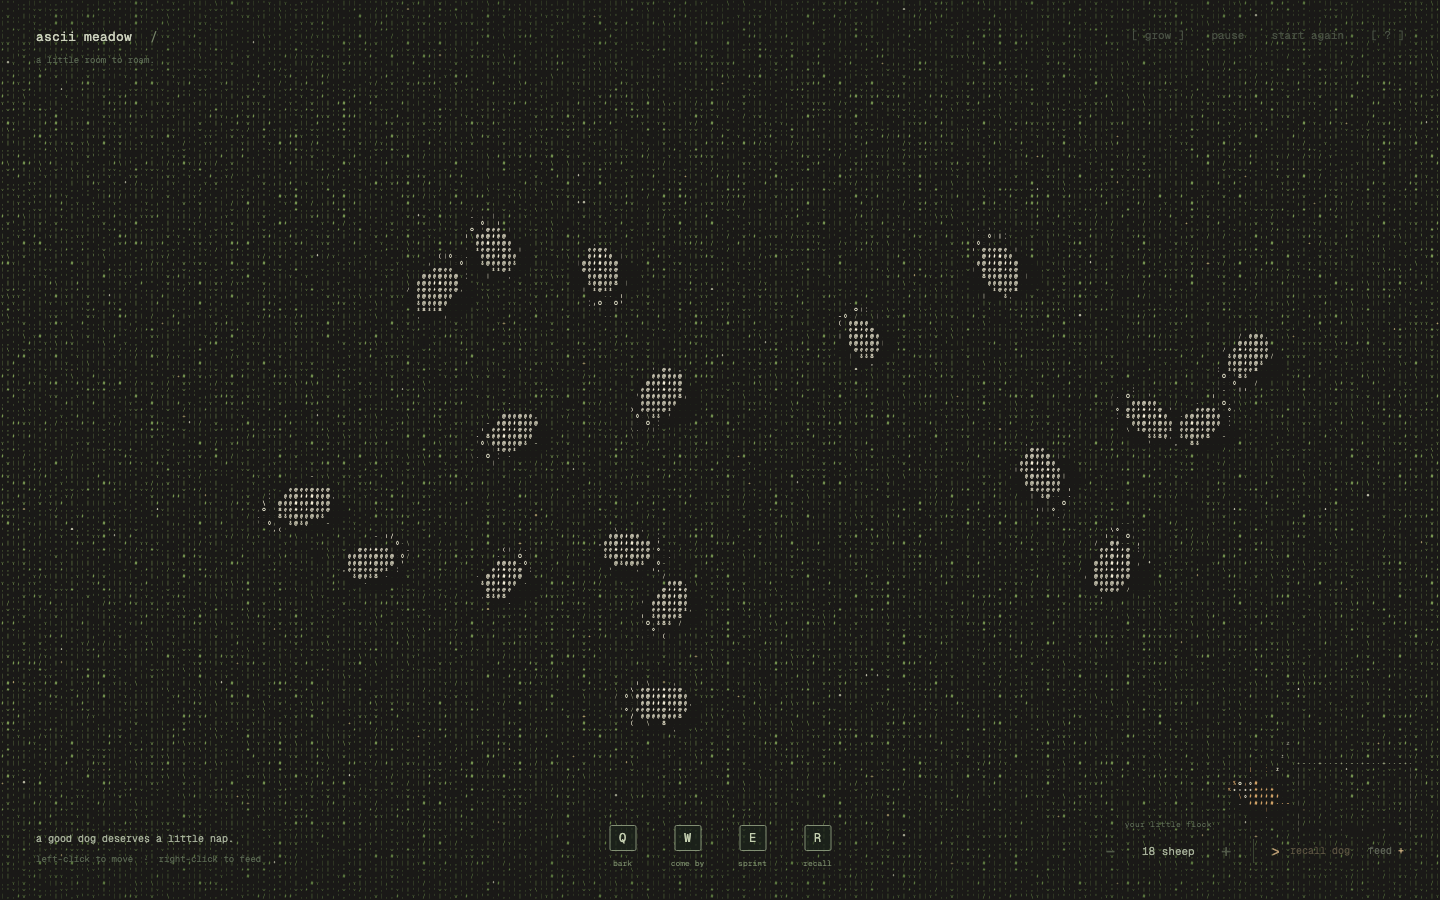
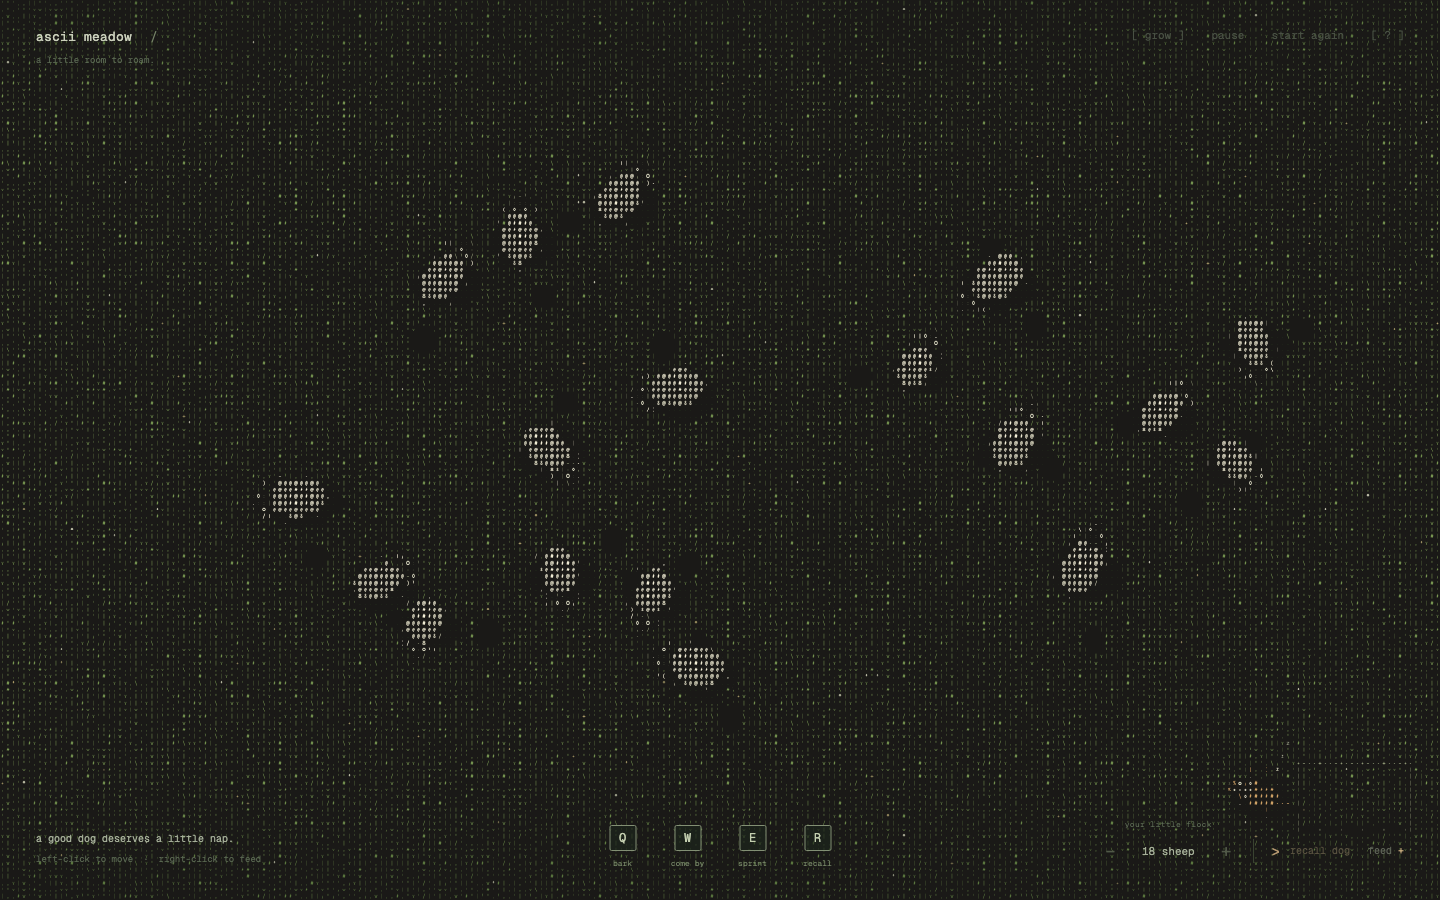
Fix shortest-angle corner turns and leave longer-lasting grazing patches

diff --git a/tests/meadow.test.ts b/tests/meadow.test.ts
@@ -10,7 +10,7 @@ describe('the living pasture', () => {
     const p = new Pasture(900, 700), near = p.index(400, 300), far = p.index(80, 80);
     const initial = p.grass[near], untouched = p.grass[far];
     expect(p.bite(400, 300, 1, 25)).toBeGreaterThan(0);
-    expect(p.grass[near]).toBeLessThan(initial); expect(initial - p.grass[near]).toBeLessThanOrEqual(0.055); expect(p.grass[far]).toBe(untouched);
+    expect(p.grass[near]).toBeLessThan(initial); expect(initial - p.grass[near]).toBeLessThanOrEqual(0.068 + 1e-6); expect(p.grass[far]).toBe(untouched);
   });
   it('starts with a completely edible field and paints back only the brush area', () => {
     const p = new Pasture(900, 700);
@@ -25,7 +25,7 @@ describe('the living pasture', () => {
     const p = new Pasture(900, 700), i = p.index(400, 300);
     p.grass[i] = 0; p.tread(400, 300, 1); const tread = p.trampled[i];
     for (let k = 0; k < 1200; k++) p.step(0.1);
-    expect(p.grass[i]).toBeGreaterThan(0.25); expect(p.grass[i]).toBeLessThan(0.28); expect(p.grass[i]).toBeLessThanOrEqual(p.capacity[i]);
+    expect(p.grass[i]).toBeGreaterThan(0.21); expect(p.grass[i]).toBeLessThan(0.23); expect(p.grass[i]).toBeLessThanOrEqual(p.capacity[i]);
     expect(p.trampled[i]).toBeLessThan(tread * 0.01);
   });
   it('keeps nibbled ground cropped for minutes, preserves it on resize, and lets the brush restore it', () => {
@@ -214,7 +214,7 @@ describe('staged recovery and responsive controls', () => {
     const p = new Pasture(900, 700); p.bite(300, 300, 5, 25);
     for (let i = 0; i < 150; i++) p.step(0.1);
     p.bite(600, 300, 5, 25);
-    for (let i = 0; i < 630; i++) p.step(0.1);
+    for (let i = 0; i < 760; i++) p.step(0.1);
     expect(p.recoverIn[p.index(300, 300)]).toBe(0); expect(p.recoverIn[p.index(600, 300)]).toBeGreaterThan(0);
     expect(p.at(300, 300)).toBeGreaterThan(p.at(600, 300)); expect(p.edibleAt(300, 300)).toBe(0);
   });
@@ -258,5 +258,31 @@ describe('safe dog routes and active herding', () => {
     const p = new Pasture(900, 700); p.bite(450, 350, 5, 25);
     for (let i = 0; i < 600; i++) p.step(0.1);
     expect(p.at(450, 350)).toBe(0); expect(p.recoverIn[p.index(450, 350)]).toBeGreaterThan(5);
+  });
+});
+
+
+describe('shortest turns and visible grazing', () => {
+  it('takes a quarter turn in either direction after any number of full laps', () => {
+    for (const laps of [-20, -4, -1, 0, 1, 4, 20]) {
+      const offset = laps * Math.PI * 2;
+      expect(angleDelta(offset + Math.PI * 0.75, -Math.PI * 0.75)).toBeCloseTo(Math.PI / 2);
+      expect(angleDelta(offset - Math.PI * 0.75, Math.PI * 0.75)).toBeCloseTo(-Math.PI / 2);
+    }
+  });
+  it('turns the dog through 90 degrees rather than 270 at the wrap boundary', () => {
+    const w = new World(1200, 900, 0); w.toggleDog();
+    const heading = Math.PI * 2 + Math.PI * 0.75;
+    Object.assign(w.dog!, { x: 600, y: 400, heading }); w.sendDog(500, 300);
+    w.step(1 / 60); expect(angleDelta(heading, w.dog!.heading)).toBeGreaterThan(0);
+    advance(w, 0.4); expect(Math.abs(angleDelta(w.dog!.heading, -Math.PI * 0.75))).toBeLessThan(0.02);
+    expect(Math.abs(w.dog!.heading)).toBeLessThanOrEqual(Math.PI);
+  });
+  it('clears a visible mouth-sized patch that remains bare after a minute', () => {
+    const p = new Pasture(900, 700); p.bite(450, 350, 2, 21);
+    expect(p.at(450, 350)).toBe(0); expect(p.at(458, 350)).toBe(0);
+    expect(p.at(200, 200)).toBe(1);
+    for (let i = 0; i < 600; i++) p.step(0.1);
+    expect(p.at(450, 350)).toBe(0); expect(p.at(458, 350)).toBe(0);
   });
 });

diff --git a/src/simulation/World.ts b/src/simulation/World.ts
@@ -15,7 +15,7 @@ export const ABILITIES: Record<Ability, { name: string; duration: number }> = {
   q: { name: 'Bark', duration: 2.4 }, w: { name: 'Come By', duration: 0 },
   e: { name: 'Sprint', duration: 1.25 }, r: { name: 'Recall / Release', duration: 0 },
 };
-export const SPEEDS = { sheepWalk: 13, sheepFood: 20, sheepChased: 26, sheepPanic: 46, dogWalk: 108, dogOrbit: 198, dogSprint: 235, dogRelease: 255 };
+export const SPEEDS = { sheepWalk: 13, sheepFood: 20, sheepChased: 26, sheepPanic: 46, dogWalk: 116, dogOrbit: 210, dogSprint: 248, dogRelease: 270 };
 export interface Dog {
   x: number; y: number; vx: number; vy: number; heading: number; targetX: number; targetY: number;
   arrived: boolean; sprint: number; orbit: 'w' | null; orbitEntering: boolean; orbitPath: Point[]; orbitProgress: number; orbitUpdatedAt: number;
@@ -29,7 +29,8 @@ function seeded(seed: number) {
   let s = seed >>> 0;
   return () => { s += 0x6d2b79f5; let t = Math.imul(s ^ s >>> 15, s | 1); t ^= t + Math.imul(t ^ t >>> 7, t | 61); return ((t ^ t >>> 14) >>> 0) / 4294967296; };
 }
-export function angleDelta(from: number, to: number) { return ((to - from + Math.PI * 3) % TAU) - Math.PI; }
+/** Signed shortest turn, including headings accumulated over several laps. */
+export function angleDelta(from: number, to: number) { return Math.atan2(Math.sin(to - from), Math.cos(to - from)); }
 
 export class World {
   pasture: Pasture; sheep: Sheep[] = []; dog: Dog | null = null; feed: Feed[] = []; barks: Bark[] = [];
@@ -232,7 +233,7 @@ export class World {
     const fraction = safeMovementFraction(d, proposed, obstacles);
     d.vx = (proposed.x - d.x) * fraction / dt; d.vy = (proposed.y - d.y) * fraction / dt;
     d.x += d.vx * dt; d.y += d.vy * dt; d.arrived = Math.hypot(d.targetX - d.x, d.targetY - d.y) < 2;
-    if (!d.arrived && Math.hypot(d.vx, d.vy) > 2) d.heading += clamp(angleDelta(d.heading, Math.atan2(d.vy, d.vx)), -dt * 5, dt * 5);
+    if (!d.arrived && Math.hypot(d.vx, d.vy) > 2) d.heading = angleDelta(0, d.heading + clamp(angleDelta(d.heading, Math.atan2(d.vy, d.vx)), -dt * 5, dt * 5));
     if (d.arrived) {
       if (d.recalling) { d.recalling = false; d.atHome = true; d.x = this.home.doorX; d.y = this.home.doorY; }
       d.launching = false;
@@ -326,7 +327,7 @@ export class World {
       const v = Math.hypot(s.vx, s.vy);
       if (v > cap) { s.vx *= cap / v; s.vy *= cap / v; }
       Object.assign(s, this.clampPoint(s.x + s.vx * dt, s.y + s.vy * dt));
-      if (v > 2) s.heading += clamp(angleDelta(s.heading, Math.atan2(s.vy, s.vx)), -dt * 1.7, dt * 1.7);
+      if (v > 2) s.heading = angleDelta(0, s.heading + clamp(angleDelta(s.heading, Math.atan2(s.vy, s.vx)), -dt * 1.7, dt * 1.7));
       this.pasture.tread(s.x, s.y, dt * (v > 3 ? 0.32 : 0.04), 19 * scale);
     }
     this.resolveOverlaps(dt);

diff --git a/src/simulation/Pasture.ts b/src/simulation/Pasture.ts
@@ -50,12 +50,12 @@ export class Pasture {
         if (d >= radius) continue;
         const i = r * this.cols + c;
         if (this.cropped[i] && this.grass[i] < 0.7) continue;
-        const amount = Math.min(this.grass[i], dt * 0.055 * (1 - d / radius));
+        const amount = Math.min(this.grass[i], dt * 0.068 * Math.min(1, (1 - d / radius) / 0.42));
         this.grass[i] -= amount; eaten += amount;
         if (this.grass[i] < 0.9) {
           // A cut plant rests, then grows continuously through visible stages.
           eaten += this.grass[i]; this.grass[i] = 0; this.cropped[i] = 1;
-          this.recoverIn[i] = 68 + hash3(c, r, 47) * 8;
+          this.recoverIn[i] = 82 + hash3(c, r, 47) * 8;
         }
       }
     }
@@ -85,7 +85,7 @@ export class Pasture {
     const decay = Math.exp(-elapsed * 0.65);
     for (let i = 0; i < this.grass.length; i++) {
       if (this.recoverIn[i] > 0) this.recoverIn[i] = Math.max(0, this.recoverIn[i] - elapsed);
-      else this.grass[i] = Math.min(this.capacity[i], this.grass[i] + elapsed * 0.0022);
+      else this.grass[i] = Math.min(this.capacity[i], this.grass[i] + elapsed * 0.0018);
       if (this.grass[i] >= 0.985 && this.recoverIn[i] === 0) this.cropped[i] = 0;
       this.trampled[i] *= decay;
     }

diff --git a/docs/VALIDATION.md b/docs/VALIDATION.md
@@ -5,19 +5,19 @@ Verified on November 12, 2026.
 | Check | Result |
 | --- | --- |
 | Production build | Strict TypeScript + Vite build passed |
-| Simulation tests | 37 passing |
+| Simulation tests | 40 passing |
 | Browser checks | 29 passing, desktop and mobile Chromium |
 | Touch-only desktop check | Intentionally skipped; tested on the mobile project |
 | Runtime errors | None observed in browser checks |
 | Full-screen character field | Canvas fills the viewport; more than 94% of sampled cell interiors contain ink |
 | Local frame samples | 60 FPS at 1440 × 900; 60 FPS at emulated 412 × 839 |
 
-Simulation checks cover local grass consumption, regrowth, tread recovery, grazing movement, greener-patch seeking, food attraction and consumption, food lifetime/cap, commanded movement and arrival, dog repulsion, gentle sleeping-dog avoidance and larger chase radius, an initially full edible map, local brush restoration, persistent cropped state through resizing, ordered recovery with 68–76 second delays and continuous growth, one-third smaller character cells, loose local companions with retained spacing, fresh-patch preference over company, limited nearby bark escape, immediate recasts without cooldowns, sheep speed limits and faster dog movement, a complete rounded outside lap including edge strays and a snug diagonal-flock route, command cancellation, recall and cursor launch, idle sleeping with preserved heading, predictive dog avoidance, wider personal space and stronger overlap correction, empty/maximum sheep counts, pause, resizing an active orbit, and a minute of bounded herding with 36 sheep.
+Simulation checks cover local grass consumption, regrowth, tread recovery, grazing movement, greener-patch seeking, food attraction and consumption, food lifetime/cap, commanded movement and arrival, dog repulsion, gentle sleeping-dog avoidance and larger chase radius, an initially full edible map, local brush restoration, persistent cropped state through resizing, ordered recovery with 82–90 second delays and continuous growth, one-third smaller character cells, loose local companions with retained spacing, fresh-patch preference over company, limited nearby bark escape, immediate recasts without cooldowns, sheep speed limits and faster dog movement, a complete rounded outside lap including edge strays and a snug diagonal-flock route, command cancellation, recall and cursor launch, idle sleeping with preserved heading, predictive dog avoidance, wider personal space and stronger overlap correction, empty/maximum sheep counts, pause, resizing an active orbit, and a minute of bounded herding with 36 sheep.
 
-Browser checks cover visible grass and sheep, canvas coverage, left-click movement, Q/E shortcuts, traveling bark rings, immediate recasts, whole-flock W coverage, R recall and cursor launch, right-click food without dog redirection, feeding by F and button, adding/removing sheep, persistence, calling and recalling/releasing the dog, help, pause, reset, hidden UI, resize, reduced motion, touch commands and ability buttons, long-press feeding, and scroll prevention. Head priority was checked with deliberately overlapping sheep. Fresh light green and much darker grazed glyphs were checked separately. Pixel checks verify Pond’s exact charcoal background ([26, 25, 23]), bare ground followed by dots, shoots, blades and mature green glyphs, and no brown flecks. Higher-priority O eyes remain visible over overlapping wool. Space brush checks verify continuous hover strokes, isolated changes, toggle-off behavior and painting while paused. P pauses independently. Idle dogs were advanced to sleep, and their actual z/Z glyph cells were verified. Temporary status copy was checked for overlap with the ability bar. A 90-second simulation verifies visible crop marks without collapse into a single flock. Compact dog feet and tail glyphs are checked outside the body silhouette. The bark ripple is confined to 86 px and vanishes by 1.2 seconds. Navigation checks cover a joined cluster, an occupied destination, sprint-speed collision sweeps, and a dog detouring around a fixed sheep. Come By exceeds 180 px/s and measurably reduces flock spread compared with ordinary grazing. Incremental rendering was compared byte-for-byte to a clean full repaint after moving sheep, a dog and bark rings, with no differences.
+Browser checks cover visible grass and sheep, canvas coverage, left-click movement, Q/E shortcuts, traveling bark rings, immediate recasts, whole-flock W coverage, R recall and cursor launch, right-click food without dog redirection, feeding by F and button, adding/removing sheep, persistence, calling and recalling/releasing the dog, help, pause, reset, hidden UI, resize, reduced motion, touch commands and ability buttons, long-press feeding, and scroll prevention. Head priority was checked with deliberately overlapping sheep. Fresh light green and much darker grazed glyphs were checked separately. Pixel checks verify Pond’s exact charcoal background ([26, 25, 23]), bare ground followed by dots, shoots, blades and mature green glyphs, and no brown flecks. Higher-priority O eyes remain visible over overlapping wool. Space brush checks verify continuous hover strokes, isolated changes, toggle-off behavior and painting while paused. P pauses independently. Idle dogs were advanced to sleep, and their actual z/Z glyph cells were verified. Temporary status copy was checked for overlap with the ability bar. A 90-second simulation verifies visible crop marks without collapse into a single flock. Compact dog feet and tail glyphs are checked outside the body silhouette. The bark ripple is confined to 86 px and vanishes by 1.2 seconds. Navigation checks cover a joined cluster, an occupied destination, sprint-speed collision sweeps, and a dog detouring around a fixed sheep. Come By exceeds 180 px/s and measurably reduces flock spread compared with ordinary grazing. Incremental rendering was compared byte-for-byte to a clean full repaint after moving sheep, a dog and bark rings, with no differences. Turn regression checks cover quarter-turns after positive and negative accumulated laps, the actual dog turn across the wrap boundary, and normalization of its heading. Grazing checks verify a full mouth-sized bare patch remains visible after a minute.
 
 The screenshots in this directory are actual captures of the application, inspected during development. The in-app browser was also used directly to call the dog, issue left-click commands and bark.
 
-Raw frame samples are saved in `performance-desktop.json` and `performance-mobile.json`. The default desktop has 36,450 grass cells and 18 sheep. Production JavaScript is approximately 41.9 kB (14.9 kB gzip), with 6.7 kB CSS and a 9.9 kB local font. There are no runtime package dependencies.
+Raw frame samples are saved in `performance-desktop.json` and `performance-mobile.json`. The default desktop has 36,450 grass cells and 18 sheep. Production JavaScript is approximately 42.0 kB (14.9 kB gzip), with 6.7 kB CSS and a 9.9 kB local font. There are no runtime package dependencies.
 
 These are samples from this computer, not a hardware-independent FPS guarantee. Mobile checks use Chromium emulation; native Safari and physical touch devices remain unverified. The meadow is a local project and has not been deployed.

diff --git a/README.md b/README.md
@@ -35,7 +35,7 @@ All four actions can be used again immediately: **there are no cooldowns**.
 | **E** | **Sprint** | A short sprint toward its current destination. When idle, the dog sprints toward the cursor. |
 | **R** | **Recall / Release** | First press: return to the small fenced pen in the bottom-right corner. Next press: sprint all the way to the cursor, with no click required. The second press also works while the dog is on its way home. |
 
-The bottom-right dog button calls the dog, then offers the same recall/release action as R. An idle dog dozes after seven seconds and releases drifting `z`/`Z` glyphs. Movement or an ability wakes it immediately. A sleeping dog keeps a gentle 56 px personal-space radius. A moving dog influences a wider 172 px radius (205 px during a sprint), and sheep anticipate its approach about half a second ahead. An awake stationary dog keeps a smaller 92 px zone. A recalled dog rests inside its pen. On arrival the dog keeps its last heading, including when it falls asleep.
+The bottom-right dog button calls the dog, then offers the same recall/release action as R. An idle dog dozes after seven seconds and releases drifting `z`/`Z` glyphs. Movement or an ability wakes it immediately. A sleeping dog keeps a gentle 56 px personal-space radius. A moving dog influences a wider 172 px radius (205 px during a sprint), and sheep anticipate its approach about half a second ahead. An awake stationary dog keeps a smaller 92 px zone. A recalled dog rests inside its pen. On arrival the dog keeps its last heading, including when it falls asleep. Heading updates use the signed shortest angle and stay normalized, so repeated Come By laps never produce a 270-degree turn at a 90-degree corner.
 
 ## Feeding and other controls
 
@@ -59,13 +59,13 @@ Food is shared and slowly consumed, with up to ten handfuls lasting up to 120 se
 
 Ordinary sheep walk at 8–13 CSS pixels per second. Food attracts them at about 1.35 times that pace. Being chased raises their speed modestly, with a 26 px/s cap. A bark briefly allows up to 46 px/s, toward a nearby escape destination rather than a screen edge.
 
-The dog walks at 108 px/s, circles at 198 px/s, sprints with E at 235 px/s, and launches from recall at 255 px/s. These speeds scale down on smaller screens. Grazing keeps a slow bite rate. Cutting down a plant leaves a visible patch, so sheep move toward fresh grass.
+The dog walks at 116 px/s, circles at 210 px/s, sprints with E at 248 px/s, and launches from recall at 270 px/s. These speeds scale down on smaller screens. Grazing is about 24% faster, with a broad center to each bite so sheep leave a clear mouth-sized eaten patch. Cutting down a plant leaves a lasting trail as sheep move toward fresh grass.
 
 ## A living pasture
 
 Every visible grass cell starts fully grown and edible. As sheep graze, a cut plant becomes bare charcoal ground, then gradually recovers through dark green `.`, brighter `:`, upright `!`/`;` shoots, leafy `v`/`/`/`\` grass and mature grass. Brightness increases within each stage. There are no brown flecks, roads or permanent bare patches.
 
-A freshly cropped cell rests for 68–76 seconds, using stable per-cell variation of at most eight seconds. After that, growth advances continuously at 0.0022 per second. Earlier-eaten patches normally recover first, so grazing history stays visible. Full recovery takes about eight to nine minutes; young shoots are left alone until they reach edible maturity. Space still toggles an immediate regrow brush, including while paused.
+A freshly cropped cell rests for 82–90 seconds, using stable per-cell variation of at most eight seconds. After that, growth advances continuously at 0.0018 per second. Earlier-eaten patches normally recover first, so grazing history stays visible. Full recovery takes about ten to eleven minutes; young shoots are left alone until they reach edible maturity. Space still toggles an immediate regrow brush, including while paused.
 
 Each sheep occasionally chooses zero, one or two nearby companions for 24–49 seconds. Their presence gives fresh grazing destinations a small preference, without a shared herd magnet. Sheep compare entire grass patches, travel distance, crowding and dog pressure; good fresh grass outweighs company. This supports loosely changing pairs and trios and independent grazers. They search farther when nearby ground is depleted.
 
